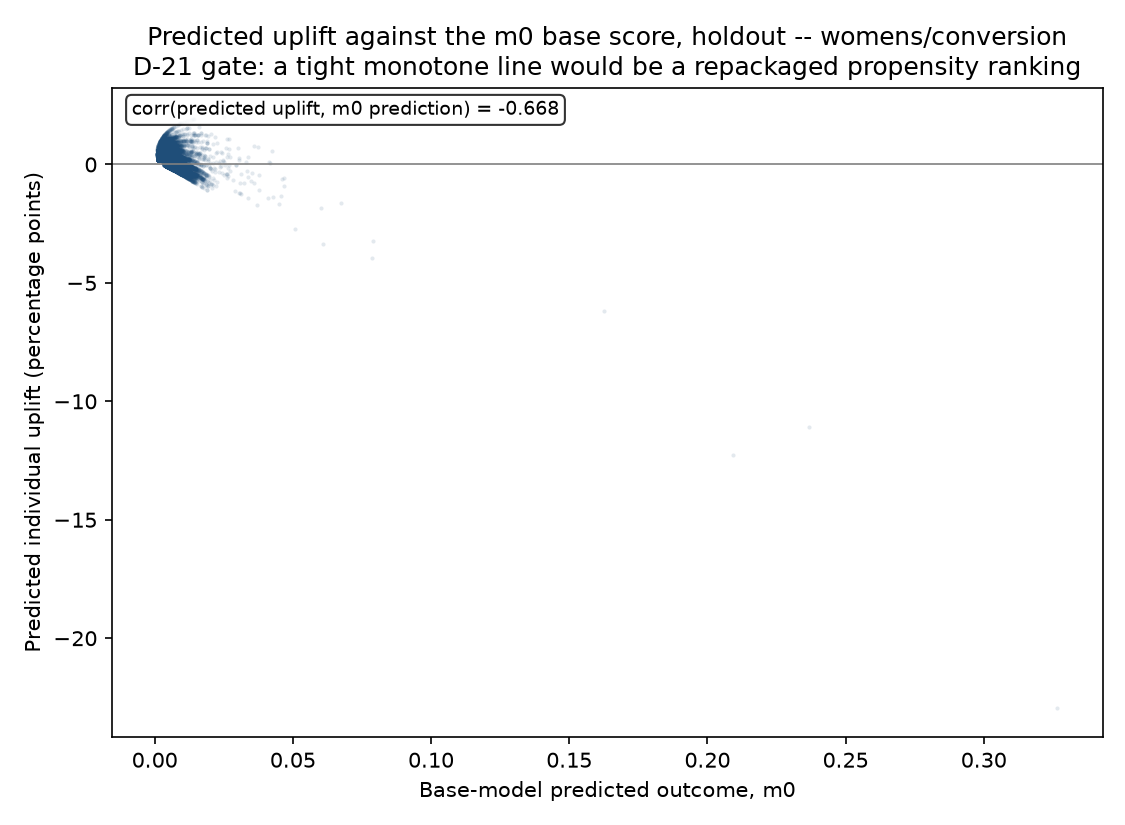
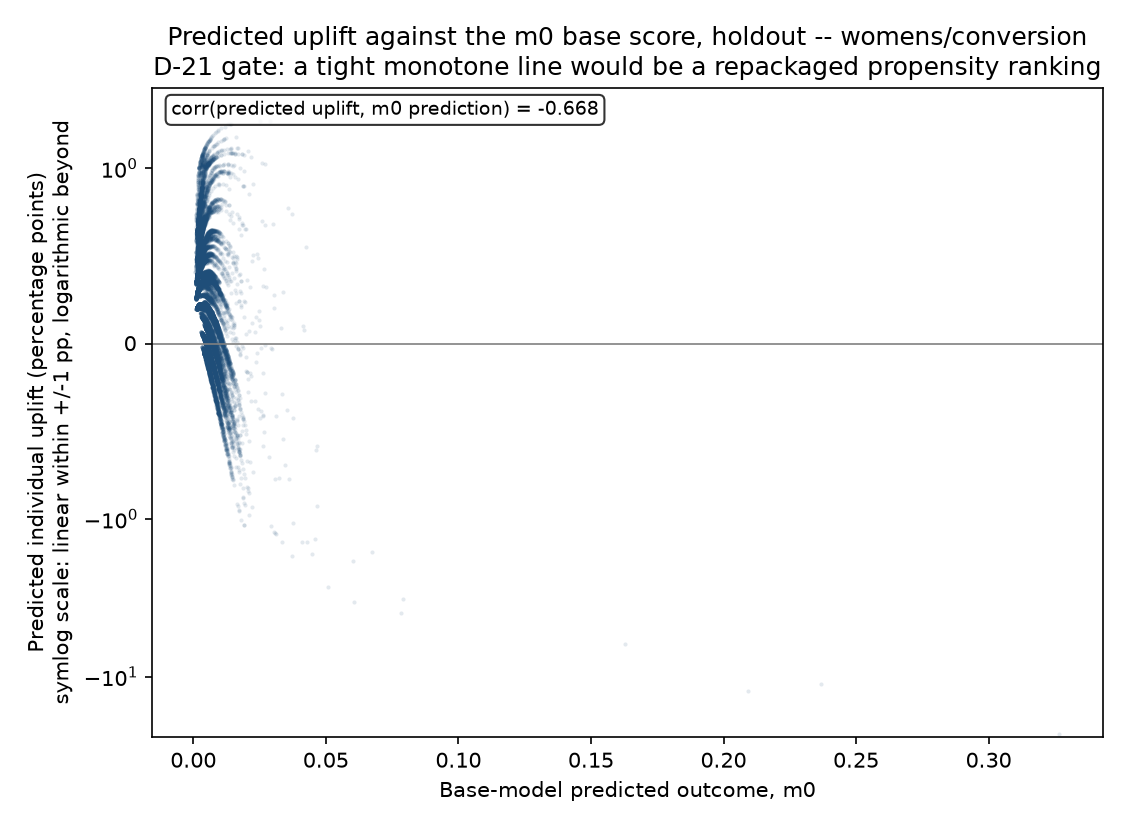
fix(04-08): put the conversion monotonicity uplift axis on a symlog scale
Applies the correction named at the 04-08-T3 checkpoint. On a linear axis
womens/conversion spent about 95% of its canvas on a handful of rows -- one
at -22.93 pp -- and rendered 21,347 points as a block of ink.

- symlog, linthresh = 1.0 pp, chosen from the measured distribution: 97.90%
  of that cell's holdout points lie within +/-1 pp, so the transform draws
  almost all of them linearly and log-compresses only the 2.10% tail
- every point stays on the canvas; clipping was rejected because it would
  hide real outlier customers to make the picture tidier
- the scale and its threshold are on the axis label itself, not in a
  caption, so a figure embedded on its own still says it is transformed
- womens/visit deliberately stays LINEAR: only 5.97% of its points lie
  within +/-1 pp and its range is [-7.10, +11.83] with no tail, so the same
  transform would push 94% of that cloud into the log region and distort a
  figure that already reads. The divergence is recorded in the SUMMARY
- pipeline.py only; plots.py unmodified

One figure regenerated, the other twelve byte-identical, all four data
artifacts byte-identical, ship outcome unchanged.

Claude-Session: https://claude.ai/code/session_01D1cZ8S3b5X2BEcNT3Ze4dm

diff --git a/dont_email_everyone/pipeline.py b/dont_email_everyone/pipeline.py
@@ -375,6 +375,27 @@ OUTCOME_NOUN = {
     "spend": "spend",
 }
 
+# The monotonicity cells whose predicted-uplift tail is long enough that a
+# linear y axis renders the scatter as a block of ink, mapped to the symlog
+# linear-region half-width (in percentage points) each one gets.
+#
+# `womens/conversion` is here and `womens/visit` is deliberately NOT, and the
+# asymmetry is measured rather than aesthetic. On the conversion cell 97.90%
+# of the 21,347 holdout points lie within +/-1 pp while the minimum is
+# -22.93 pp, so a linear axis spends about 95% of the canvas on a handful of
+# rows and symlog at 1 pp draws 97.90% of the data on the LINEAR part and
+# log-compresses only the 2.10% tail. On the visit cell the distribution is
+# the other way round: its range is [-7.10, +11.83] with no tail at all, and
+# only 5.97% of its points lie within +/-1 pp -- the same transform would
+# push 94% of that cloud into the log region, squash its dense +7 to +10 pp
+# band into a sliver and give its sparsest rows a third of the canvas. It
+# would distort the figure that already reads, to no gain.
+#
+# Clipping the axis instead was considered and REJECTED: it would hide real
+# outlier customers to make the picture tidier, which is the one trade this
+# project does not make. Every point stays on the canvas.
+MONOTONICITY_SYMLOG_LINTHRESH = {("womens", "conversion"): 1.0}
+
 # Reader-facing learner names. The artifact keys are terse because they are
 # column values; a figure title is prose and says what the configuration is.
 LEARNER_LABEL = {
@@ -580,6 +601,42 @@ def _relabel_qini_axis(fig, outcome: str, *, axis: str) -> None:
         "size down to 7 points; shorten the wording rather than publishing a "
         "clipped label."
     )
+
+
+def _symlog_uplift_axis(fig, linthresh: float) -> None:
+    """Put the uplift axis of a monotonicity scatter on a symlog scale.
+
+    `symlog` is linear within `+/-linthresh` and logarithmic beyond it, which
+    is the transform for a distribution that is tight around zero with a few
+    rows far out: every point stays on the canvas -- nothing is clipped and
+    no customer is dropped -- while the bulk stops collapsing into a block of
+    ink. Clipping the axis would read better and would be a lie about the
+    data, which is the trade this repository exists not to make.
+
+    A transformed axis that does not SAY it is transformed is worse than an
+    unreadable one, because a reader measures spacing off it and gets a wrong
+    answer with nothing to warn them. The scale and its threshold are
+    therefore appended to the axis label itself rather than left to a caption
+    that a figure embedded on its own would arrive without.
+
+    Applied from the orchestrator, like the write and the close: `plots.py`
+    returns a Figure whose scale the caller may set for its own output
+    context, and its `uplift_vs_base_score_plot` signature stays the one plan
+    04-02 pinned.
+    """
+    if not linthresh > 0.0:
+        raise ValueError(
+            f"linthresh is {linthresh}; symlog's linear region must have a "
+            "positive half-width."
+        )
+    axes = fig.axes[0]
+    axes.set_yscale("symlog", linthresh=linthresh, linscale=1.0)
+    axes.set_ylabel(
+        f"{axes.get_ylabel()}\n"
+        "symlog scale: linear within "
+        f"+/-{linthresh:g} pp, logarithmic beyond"
+    )
+    fig.tight_layout()
 
 
 def _worst_base_score(cell, scores):
@@ -1393,6 +1450,9 @@ def train() -> None:
             "-- womens/conversion\nD-21 gate: a tight monotone line would "
             "be a repackaged propensity ranking"
         ),
+    )
+    _symlog_uplift_axis(
+        figure, MONOTONICITY_SYMLOG_LINTHRESH[("womens", "conversion")]
     )
     figure.savefig(
         config.FIGURES / "monotonicity_womens_conversion_linear.png", dpi=150

diff --git a/tests/test_pipeline.py b/tests/test_pipeline.py
@@ -880,6 +880,56 @@ def test_relabel_qini_axis_names_the_cells_own_outcome():
         plt.close(figure)
 
 
+def test_symlog_uplift_axis_keeps_every_point_and_says_so():
+    # The point of symlog here is that NOTHING is clipped: the -22.93 pp row
+    # on the womens/conversion holdout stays on the canvas. Clipping would
+    # read better and would hide a real customer.
+    rng = np.random.default_rng(20260902)
+    uplift = np.concatenate([rng.normal(0.0, 0.004, 500), [-0.229]])
+    base = rng.random(uplift.size) * 0.3
+    figure = plots.uplift_vs_base_score_plot(uplift, base, r=-0.668)
+    try:
+        pipeline._symlog_uplift_axis(figure, 1.0)
+        axes = figure.axes[0]
+        assert axes.get_yscale() == "symlog"
+        low, high = axes.get_ylim()
+        assert low <= -22.9, (low, "the extreme row was clipped off the axis")
+        assert high >= uplift.max() * 100.0
+        # A transformed axis that does not say so is worse than an
+        # unreadable one: a reader measures spacing off it and is wrong.
+        label = axes.get_ylabel()
+        assert "symlog" in label and "1 pp" in label, label
+    finally:
+        plt.close(figure)
+
+
+def test_symlog_uplift_axis_rejects_a_non_positive_linthresh():
+    figure = plt.figure()
+    figure.add_subplot(111)
+    try:
+        with pytest.raises(ValueError, match="positive half-width"):
+            pipeline._symlog_uplift_axis(figure, 0.0)
+    finally:
+        plt.close(figure)
+
+
+def test_only_the_conversion_monotonicity_cell_gets_a_symlog_axis():
+    # Measured, not aesthetic: 97.90% of the womens/conversion holdout points
+    # lie within +/-1 pp against a -22.93 pp minimum, so symlog draws almost
+    # all of them linearly and compresses only the tail. On womens/visit only
+    # 5.97% lie within +/-1 pp and the range is [-7.10, +11.83] with no tail,
+    # so the same transform would push 94% of that cloud into the log region
+    # and distort a figure that already reads. Two figures of one kind on two
+    # scales is a wart; drawing one of them wrong is worse.
+    assert pipeline.MONOTONICITY_SYMLOG_LINTHRESH == {
+        ("womens", "conversion"): 1.0
+    }
+    for arm, outcome in pipeline.FIGURE_SHIPPING_CELLS:
+        assert f"monotonicity_{arm}_{outcome}_{models.PRIMARY_CONFIG}" in (
+            pipeline.FIGURE_STEMS
+        )
+
+
 def test_relabel_qini_axis_raises_when_the_wording_changed():
     figure = plt.figure()
     figure.add_subplot(111).set_ylabel("Something with no outcome noun")
